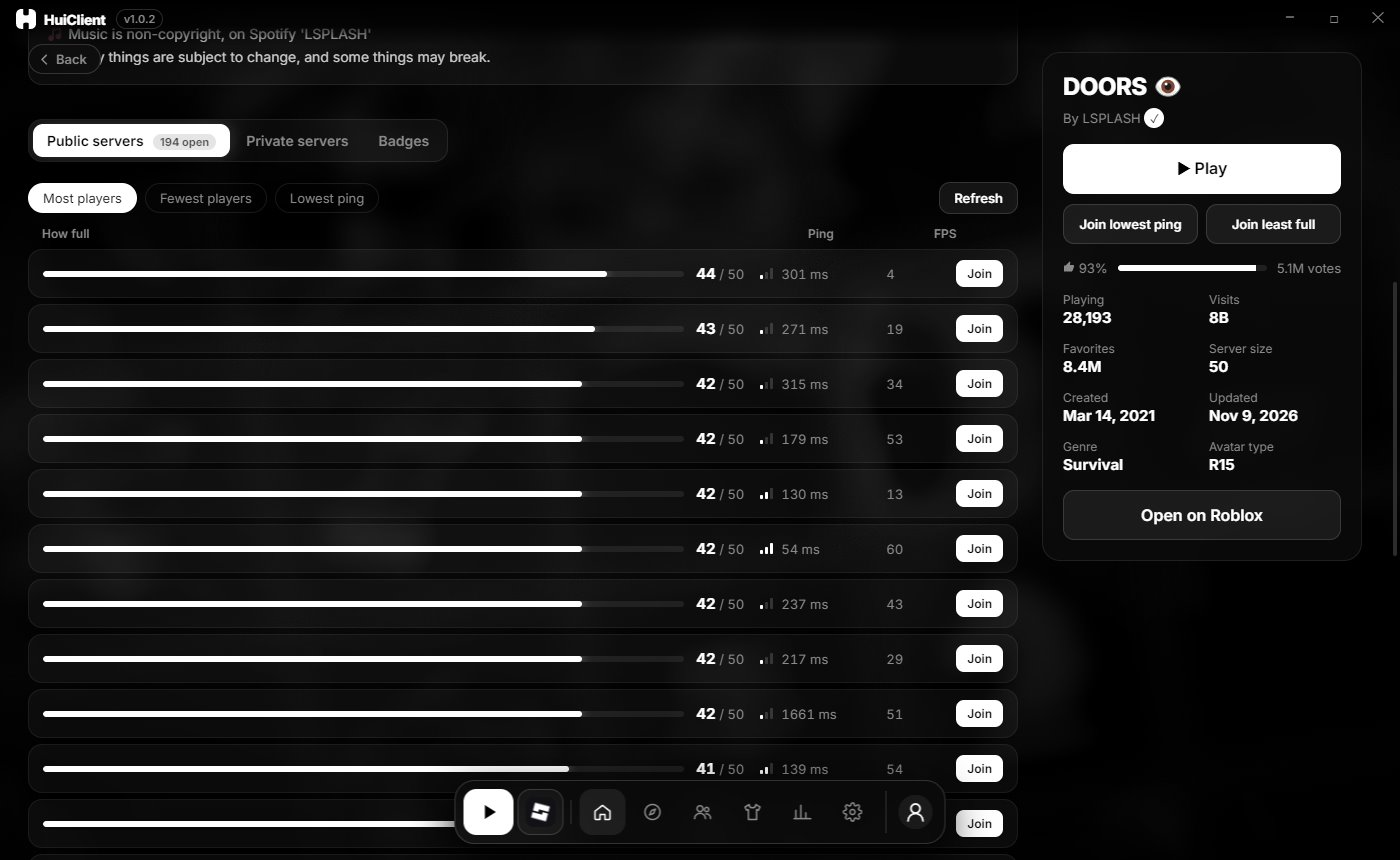
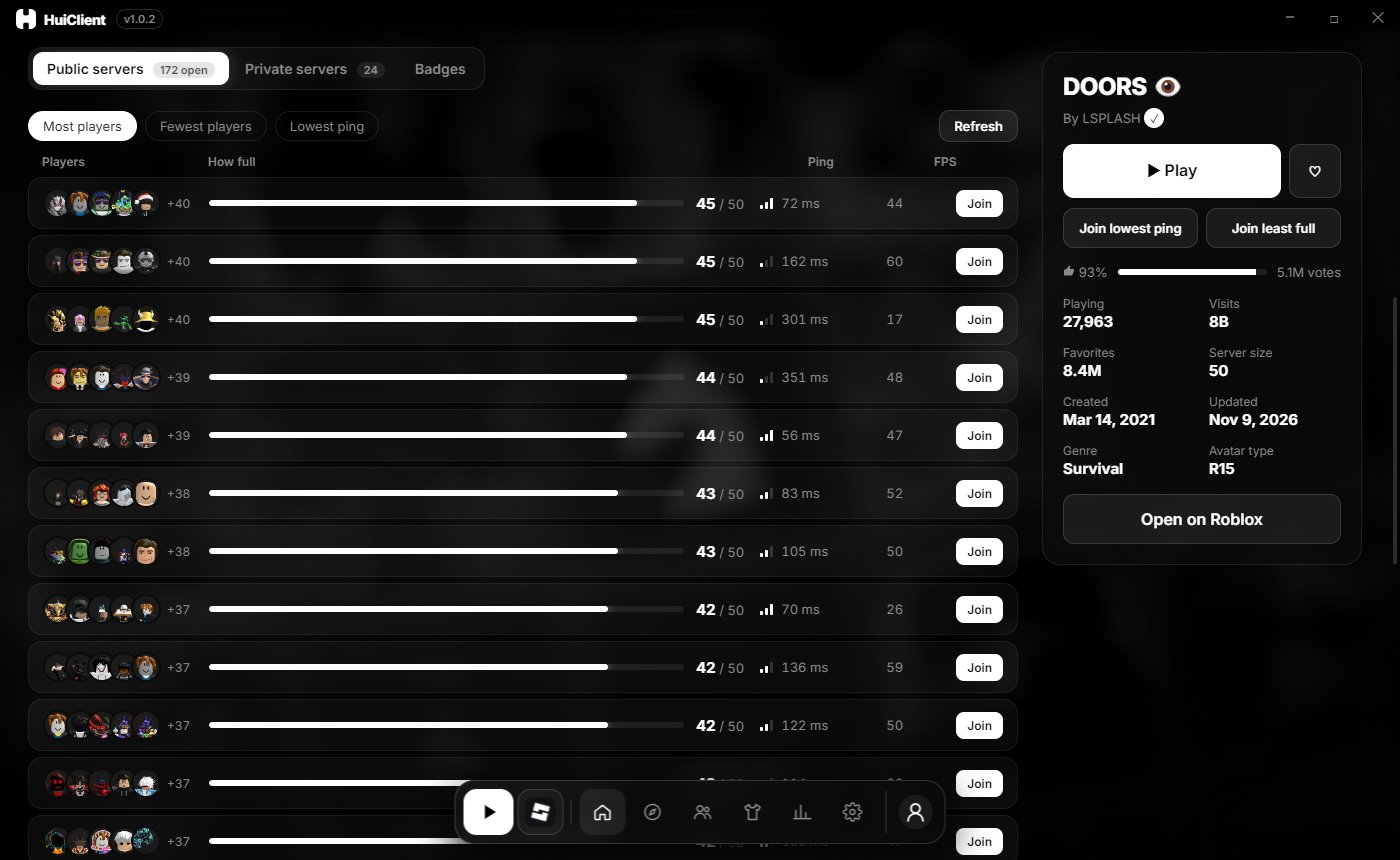
Download page

diff --git a/index.html b/index.html
@@ -254,10 +254,10 @@ footer { padding: 28px 0 40px; border-top: 1px solid var(--line); color: var(--m
         <div class="tour-tabs" role="tablist" aria-label="HuiClient's screens">
           <span class="tour-pill" aria-hidden="true"></span>
           <button role="tab" id="t-home" aria-controls="tourView" aria-selected="true" data-shot="home" data-say="The game you played last, ready to rejoin, then your favorites and what's popular, with your friends on the side." data-alt="HuiClient's Home page: the last played game with a Play button, a grid of games to continue, popular games, and a friends column on the right.">Home</button>
-          <button role="tab" id="t-servers" aria-controls="tourView" aria-selected="false" tabindex="-1" data-shot="servers" data-say="Every open server, how full it is and its ping. Sort by most or fewest players and join the one you want." data-alt="A game's server list sorted by most players: a bar for how full each server is, its ping, and a Join button, next to the game's Play and quick-join buttons.">Servers</button>
+          <button role="tab" id="t-servers" aria-controls="tourView" aria-selected="false" tabindex="-1" data-shot="servers" data-say="Every open server: who's on it, how full it is and its ping. Sort by most or fewest players and join the one you want." data-alt="A game's server list sorted by most players: a few players' avatars on each server, a bar for how full it is, its ping, and a Join button, next to the game's Play, favorite and quick-join buttons.">Servers</button>
           <button role="tab" id="t-avatars" aria-controls="tourView" aria-selected="false" tabindex="-1" data-shot="avatars" data-say="Any player's saved avatars in 3D, with every item and its price." data-alt="A saved avatar shown in 3D next to the list of its items and their prices.">Saved avatars</button>
           <button role="tab" id="t-playtime" aria-controls="tourView" aria-selected="false" tabindex="-1" data-shot="playtime" data-say="How long you played today and this week, and your most played games." data-alt="The Playtime page: today's time, a bar for each day of the week, and the most played games.">Playtime</button>
-          <button role="tab" id="t-versions" aria-controls="tourView" aria-selected="false" tabindex="-1" data-shot="versions" data-say="Pick Roblox's update channel, repair a broken install, or roll back an update." data-alt="Deployment settings: the update channel, the installed Roblox and Studio versions, and Repair, Choose a version and Roll back buttons.">Roblox versions</button>
+          <button role="tab" id="t-versions" aria-controls="tourView" aria-selected="false" tabindex="-1" data-shot="versions" data-say="Downgrade to any saved Roblox version, roll back an update, repair a broken install, or pick the update channel." data-alt="Deployment settings with the Choose a Roblox version pop-up open: a saved version, its id and the time Roblox released it.">Roblox versions</button>
           <button role="tab" id="t-mods" aria-controls="tourView" aria-selected="false" tabindex="-1" data-shot="mods" data-say="Your own mouse cursor, font and sounds inside Roblox." data-alt="Mods settings: mouse cursor choices, the game font, other cursors and sounds.">Mods</button>
         </div>
         <div class="tour-progress" aria-hidden="true"><i id="tourProgress"></i></div>
@@ -285,6 +285,7 @@ footer { padding: 28px 0 40px; border-top: 1px solid var(--line); color: var(--m
           <li class="reveal"><b>Saved avatars</b><span>Browse the avatars a player saved in 3D, with every item and its price.</span></li>
           <li class="reveal"><b>Playtime</b><span>How long you played today, this week, and in each game.</span></li>
           <li class="reveal"><b>Roblox versions</b><span>HuiClient installs Roblox and Studio itself, and can repair them or roll back.</span></li>
+          <li class="reveal"><b>Downgrade</b><span>Switch Roblox to any version saved since November 2026, with the time Roblox released it. Update again whenever you want.</span></li>
           <li class="reveal"><b>FastFlags and mods</b><span>Change Roblox's hidden settings, and use your own cursor, sounds and fonts.</span></li>
         </ul>
       </div>
